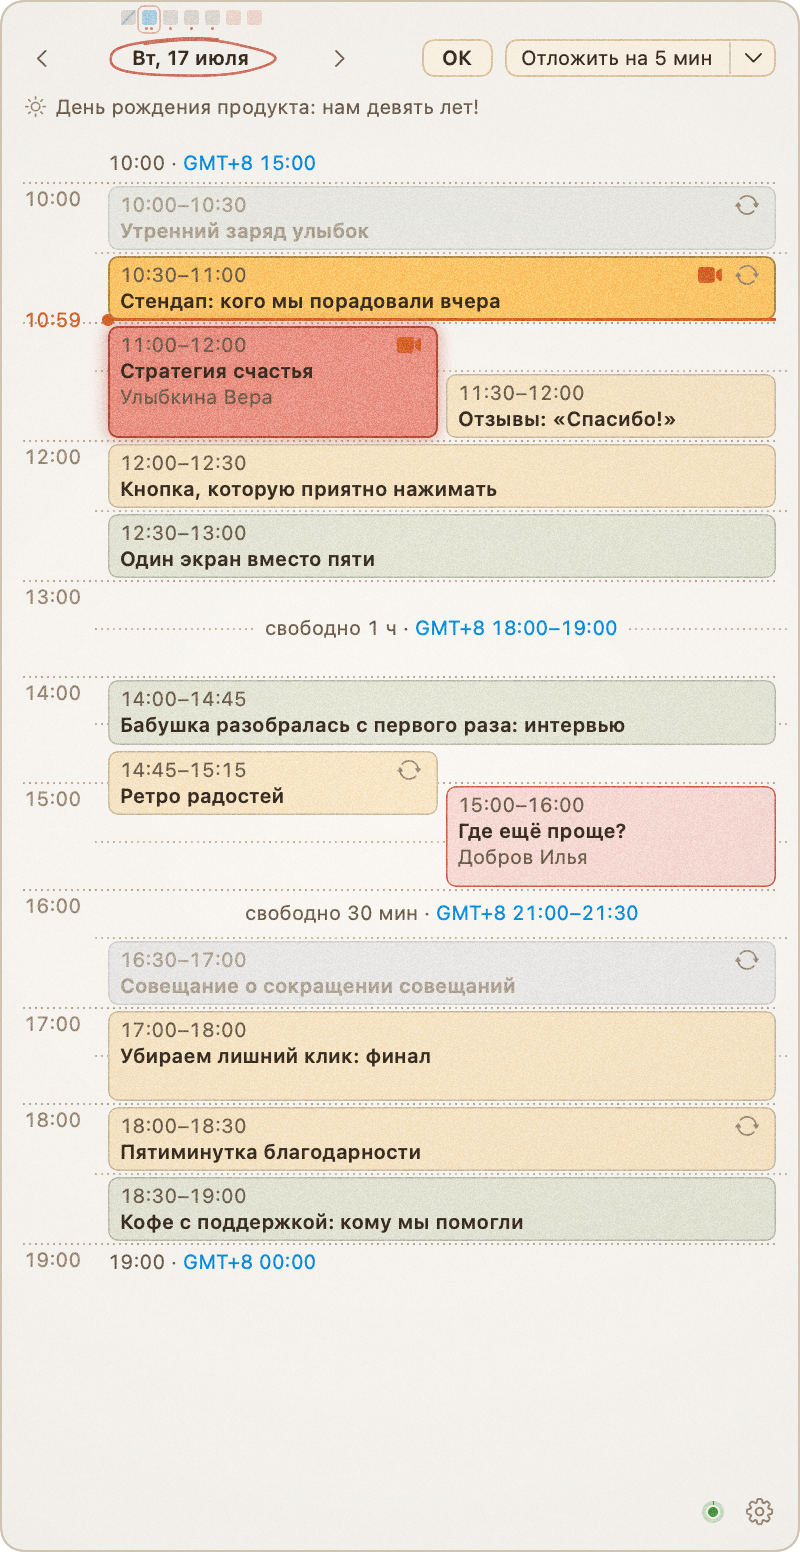
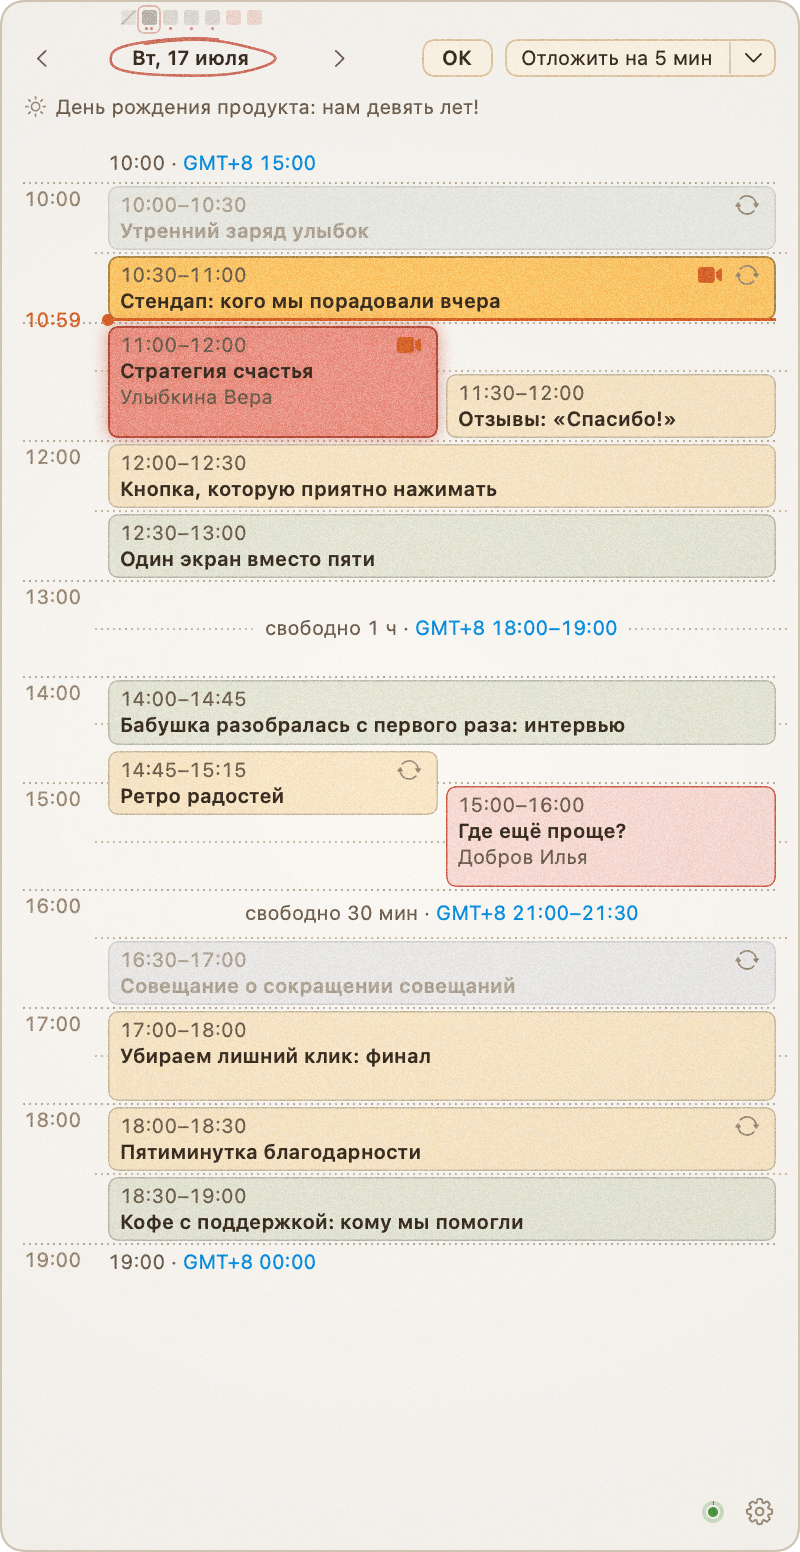
Неделя над датой: день — своим тоном, только гуще; прошедшие бледнее, зачёркнуты своим тоном
Claude-Session: https://claude.ai/code/session_01SW6W8P3aC11VdsTxCJVhW8

Changed region(s): [[0.125, 0.1546, 0.8438, 0.2784], [0.8438, 0.1546, 0.9688, 0.2165], [0.1562, 0.0, 0.2188, 0.0309]]

diff --git a/Sources/Butler/Panel.swift b/Sources/Butler/Panel.swift
@@ -647,8 +647,8 @@ func dayTitle(_ day: String) -> String? {
 }
 
 /// Неделя показанного дня — семь квадратиков у верхнего края карточки: бледная краска, сквозь которую видно
-/// зерно листа, будто их напечатали. Выходные розоватые, сам день бледно-голубой, как второй часовой пояс,
-/// прошедшие дни слегка зачёркнуты тем же голубым (сегодня — когда кончилась последняя встреча), отмеченные в календаре — в красной рамке. Под квадратиком — точки важных встреч, по пикселю.
+/// зерно листа, будто их напечатали. Выходные розоватые, сам день — тем же тоном, только гуще,
+/// прошедшие дни бледнее и слегка зачёркнуты (сегодня — когда кончилась последняя встреча), отмеченные в календаре — в красной рамке. Под квадратиком — точки важных встреч, по пикселю.
 struct Week: View {
     let app: App
 
@@ -661,18 +661,22 @@ struct Week: View {
         let size: CGFloat = 7.5
         HStack(spacing: 3) {
             ForEach(week(app.shownDay), id: \.self) { d in
+                // Свой тон у каждого дня: будни серые, выходные розоватые. Показанный день — тем же тоном, только гуще;
+                // прошедшие бледнее и зачёркнуты своим же тоном.
+                let tone = nonWorking(d, workdays: app.state.workdays) ? ink(0xE07A64) : Ink.secondary
+                let past = d < current || d == current && todayOver
+                let shown = d == app.shownDay
                 VStack(spacing: 1.2) {
                     RoundedRectangle(cornerRadius: 1.5)
-                        .fill(d == app.shownDay ? Ink.home.opacity(0.3)
-                              : nonWorking(d, workdays: app.state.workdays) ? ink(0xE07A64).opacity(0.22) : Ink.secondary.opacity(0.17))
+                        .fill(tone.opacity((tone == Ink.secondary ? 0.17 : 0.22) * (shown ? 2.4 : past ? 0.55 : 1)))
                         .frame(width: size, height: size)
                         .overlay {
-                            if d < current || d == current && todayOver {
+                            if past {
                                 Path { path in
                                     path.move(to: CGPoint(x: 0.5, y: size - 0.5))
                                     path.addLine(to: CGPoint(x: size - 0.5, y: 0.5))
                                 }
-                                .stroke(Ink.home.opacity(0.3), style: StrokeStyle(lineWidth: 0.9, lineCap: .round))
+                                .stroke(tone.opacity(shown ? 0.55 : 0.3), style: StrokeStyle(lineWidth: 0.9, lineCap: .round))
                             }
                         }
                     let vip = min(app.knownMeetings(d)?.filter { important($0, app.state) }.count ?? 0, 3)
